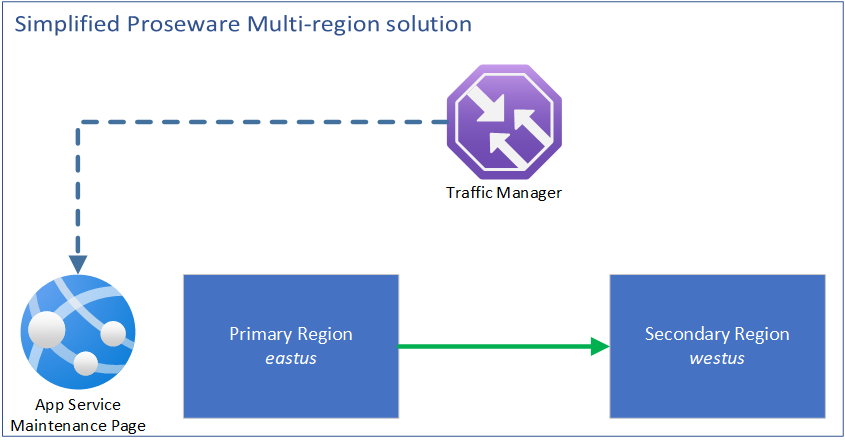
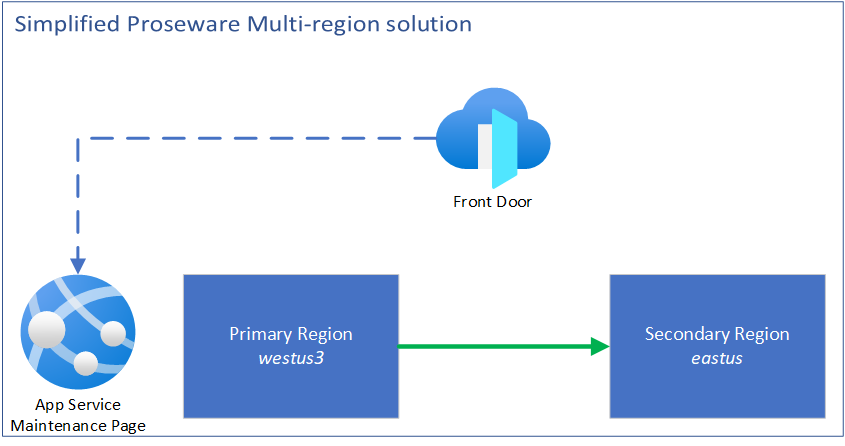
updated plan with front door

diff --git a/plan.md b/plan.md
@@ -32,19 +32,19 @@ The two flows of traffic we will address are:
 
 ![Diagram showing the simplified architecture for failover](docs/assets/failover-part1.png)
 
-<!-- todo: assumes Traffic Manager -->
 ### Cut-off traffic to the *westus3* region
 
 We want to inform users about the outage and stop traffic flowing to *westus3* while we peform maintenance on the system.
 
 1. Create a new Azure App Service
     1. Deploy an informational maintenance page to the new App Service
-1. Update traffic manager endpoint
-    1. Change the target resource for the endpoint so that it points to the Azure App Service Maintenance page <br />
+1. Update Azure Front Door origin group
+    1. Add the new maintenance web app as an origin <br />
     Additional details:
-    - [Add Traffic Manager endpoints](https://learn.microsoft.com/azure/traffic-manager/quickstart-create-traffic-manager-profile#add-traffic-manager-endpoints)
+       - [Create a Front Door - Portal](https://learn.microsoft.com/azure/frontdoor/create-front-door-portal)
+    1. Disable the *westus3* origin.
 
-With these changes complete, the simplified Proseware multi-region solution is adjusted as shown. Traffic Manager no longer sends data to the *westus3* region.
+With these changes complete, the simplified Proseware multi-region solution is adjusted as shown. Azure Front Door no longer sends data to the *westus3* region.
 
 ![Diagram showing the change resulting from part 1](docs/assets/failover-part1-complete.png)
 
@@ -84,18 +84,14 @@ With these changes complete, the simplified Proseware multi-region solution is a
 
 ![Diagram showing the change resulting from part 2](docs/assets/failover-part2-complete.png)
 
-<!-- todo -->
-### WIP: Update web app configuration
+### Update web app configuration
+To connect to the Azure Database for Postgres Flexible Server in *east* we need to use a new connection string.
+
 1. Update Key Vault connection string for PostgreSQL database
-1. Restart the web app
+1. Restart the web app in *eastus*
 
-<!-- todo -->
-### WIP: Validate the *eastus* traffic
-Todo describe the recommendation for the *eastus* region to be tested before we send traffic
+With these changes complete the *eastus* web app is now ready for testing.
 
-### WIP: Send traffic to *eastus*
-<!-- todo: recommending a phased rollout requires feature support -->
-Todo describe traffic manager changes. 
 
 ### Restore Data Replication to *westus3*
 
@@ -115,10 +111,9 @@ We want to modify the solid green arrow in this step of the failover. In this si
     Additional details:
     - [Replication change table](https://learn.microsoft.com/en-us/azure/storage/common/redundancy-migration?tabs=portal#replication-change-table)
 
-1. Create a read replica for Azure Database for PostgreSQL
+1. Create a new Azure Database for PostgreSQL Flexible server and database
 
-    > **Note**<br>
-    > After you stop replication to a primary server and a read replica, it can't be undone. The read replica becomes a standalone server that supports both reads and writes. The standalone server can't be made into a replica again.
+1. Create a read replica for Azure Database for PostgreSQL
 
     ```sh
     az postgres server replica create --name <mydemoserver-replica> --source-server <mydemoserver> --resource-group <myresourcegroup> --location <westus3>
@@ -127,6 +122,41 @@ We want to modify the solid green arrow in this step of the failover. In this si
     Additional details:
     - [Manage read replicas - Azure portal - Azure Database for PostgreSQL - Single Server](https://learn.microsoft.com/en-us/azure/postgresql/single-server/how-to-read-replicas-portal#stop-replication)
     - [Manage read replicas - Azure CLI, REST API - Azure Database for PostgreSQL - Single Server](https://learn.microsoft.com/en-us/azure/postgresql/single-server/how-to-read-replicas-cli#stop-replication-to-a-replica-server)
+
+With these changes complete, the simplified Proseware multi-region solution is adjusted as shown. The solid green arrow for data replication is re-added. However website traffic is still flowing to the maintenance page.
+
+![Diagram showing the change resulting from part 3](docs/assets/failover-part3-complete.png)
+
+### Validate the *eastus* traffic
+
+1. Configure App Service Access Restriction to allow traffic that does not come from Front Door.
+
+    Additional details:
+    - [Azure App Service access restrictions](https://learn.microsoft.com/azure/app-service/app-service-ip-restrictions?tabs=azurecli#restrict-access-to-a-specific-azure-front-door-instance)
+
+Modifying the network settings for the web app enables the team to perform any manual testing that is necessary to validate that the website is functional before we send traffic to the site.
+
+1. Validate the website.
+
+1. Reconfigure App Service Web App to disallow traffic that does not come from Front Door.
+
+### Send traffic to *eastus*
+
+We want to stop traffic flowing to the maintenance page and send it to the now ready and waiting *eastus* region.
+
+1. Update Azure Front Door origin group
+    1. Enable the *eastus* origin.
+    1. Disable the origin for the maintenance page.
+
+With these changes complete, the simplified Proseware multi-region solution is adjusted as shown. Replication is restored and Azure Front Door is now sending traffic to the secondary region.
+
+![Diagram showing the change resulting from part 4](docs/assets/failover-part4-complete.png)
+
+### Clean up
+
+1. Azure App Service maintenance page can now be removed
+1. Azure PostgreSQL Database Flexible Server *westus3* is now a point-in-time backup of the production system that can be used as another recovery option or removed from the subscription.
+
 
 ## Failback
 Using the steps described above Proseware plans to migrate their traffic from *eastus* back to *westus3* when possible as latency in the web app is a primary concern for thier users.
